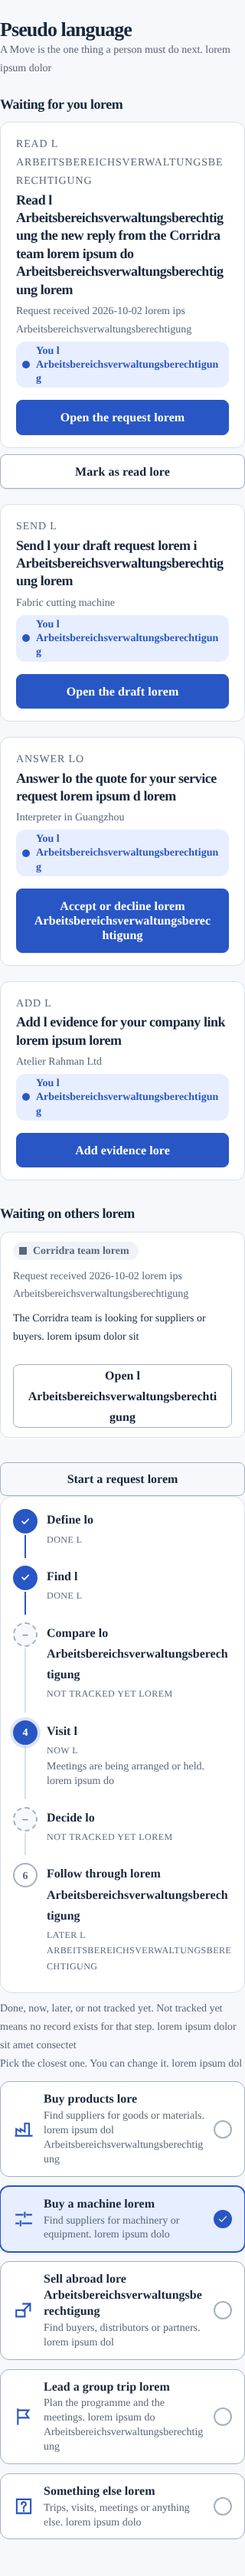
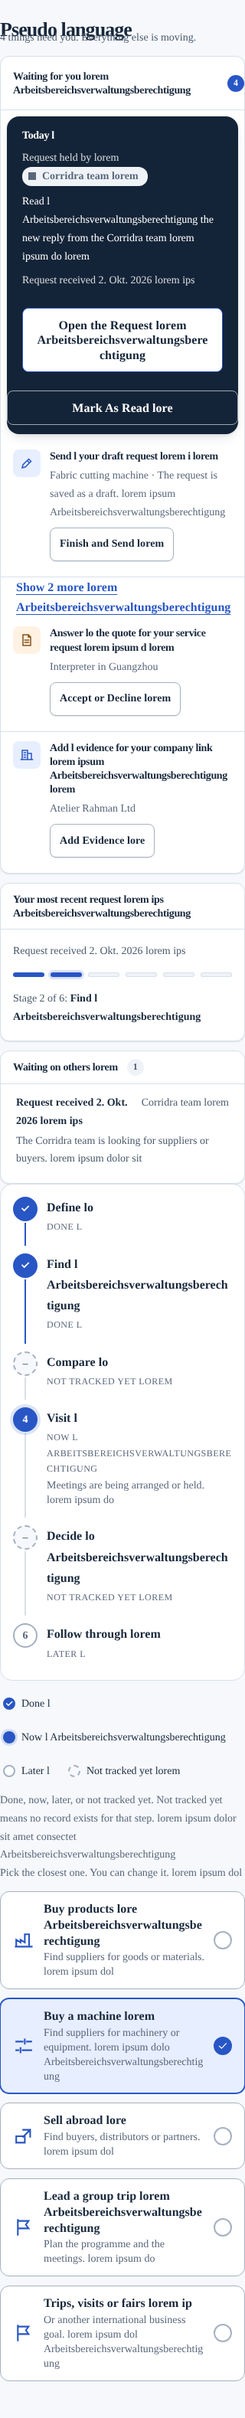
Fix the Today heading contrast and update the Your Move operator spec
Claude-Session: https://claude.ai/code/session_0187kU9uCjsvGgTtPRo95n2j

Changed region(s): [[0.0, 0.0, 1.0, 0.993], [0.9688, 0.5586, 1.0, 0.5896]]

diff --git a/tests/operator/ux-move.spec.ts b/tests/operator/ux-move.spec.ts
@@ -173,6 +173,11 @@ test('the cards show what is waiting for the person and who holds the rest', asy
   await open(page, 'full');
   await expect(page.getByRole('heading', { name: 'Waiting for you', exact: true })).toBeVisible();
   await expect(page.getByText('Send your draft request')).toBeVisible();
+  // TC1: the unread reply is the Today card and one row opens beside it; the company link waits behind Show More,
+  // still reachable.
+  await expect(page.getByTestId('today-card')).toHaveCount(1);
+  await expect(page.getByText('Add Evidence for your company link')).toBeHidden();
+  await page.getByText('Show 1 more').click();
   await expect(page.getByText('Add Evidence for your company link')).toBeVisible();
   await expect(page.getByRole('link', { name: 'Finish and Send' })).toHaveAttribute(
     'href',
@@ -202,21 +207,25 @@ test('shows a Move the team set as a card with its real date, and folds the othe
   page,
 }) => {
   await open(page, 'moves');
-  const card = page.locator('.mr-move').filter({ hasText: 'Add your import licence number' });
+  // TC1: the Move the person holds is the Today card: same words, same date, same address, one filled action.
+  const card = page.getByTestId('today-card');
   await expect(card).toBeVisible();
-  await expect(card).toContainText('You');
+  await expect(card.getByRole('heading', { name: 'Today' })).toBeVisible();
+  await expect(card).toContainText('Add your import licence number');
+  await expect(card).toContainText('Corridra team');
   await expect(card.locator('time')).toHaveText('5 Nov 2026');
   await expect(card.getByRole('link', { name: 'Open the Request' })).toHaveAttribute(
     'href',
     '/account/requests/r1',
   );
+  await expect(card.locator('.today-action')).toHaveCount(1);
   const waiting = page.getByRole('heading', { name: 'Waiting on others' }).locator('..');
   await expect(waiting.getByText('Confirm the visit dates')).toBeVisible();
   await expect(waiting.getByText('Corridra team', { exact: true }).first()).toBeVisible();
   await expect(waiting.getByText('Send the quotation')).toBeVisible();
   await expect(waiting.getByText('Supplier or Buyer')).toBeVisible();
   // The team's words are theirs: shown as written, marked as English in any language.
-  await expect(card.locator('h3')).toHaveAttribute('lang', 'en');
+  await expect(card.locator('.today-move')).toHaveAttribute('lang', 'en');
 });
 
 test('a new reply is kept on this device only, and can be marked read and forgotten', async ({
@@ -318,13 +327,16 @@ test('when nothing waits it says so, shows where the latest request stands and o
 });
 
 // Three show first since the role-aware Home (owner rule: one desktop screen); the rest are one control away.
-test('shows three cards and the rest behind one control', async ({ page }) => {
+test('shows the Today card and one row, and the rest behind one control', async ({ page }) => {
   await open(page, 'many');
-  await expect(page.locator('.mr-move')).toHaveCount(7);
-  await expect(page.locator('.mr-move').filter({ visible: true })).toHaveCount(3);
+  // Seven drafts: one is the Today card (one filled action), six stay rows, one of them open.
+  await expect(page.getByTestId('today-card')).toHaveCount(1);
+  await expect(page.locator('.today-action')).toHaveCount(1);
+  await expect(page.locator('.mr-move')).toHaveCount(6);
+  await expect(page.locator('.mr-move').filter({ visible: true })).toHaveCount(1);
   await expect(page.locator('.move-more')).toHaveJSProperty('open', false);
-  await page.getByText('Show 4 more').click();
-  await expect(page.locator('.mr-move').filter({ visible: true })).toHaveCount(7);
+  await page.getByText('Show 5 more').click();
+  await expect(page.locator('.mr-move').filter({ visible: true })).toHaveCount(6);
   await expect(page.locator('.move-more')).toHaveJSProperty('open', true);
 });
 

diff --git a/apps/web/components/today-card.css b/apps/web/components/today-card.css
@@ -16,7 +16,7 @@
   font-size: var(--text-sm);
   color: color-mix(in srgb, var(--on-brand) 82%, transparent);
 }
-.today-heading {
+.move-view .today-card .today-heading {
   margin: 0;
   font-size: var(--text-sm);
   font-weight: 600;
